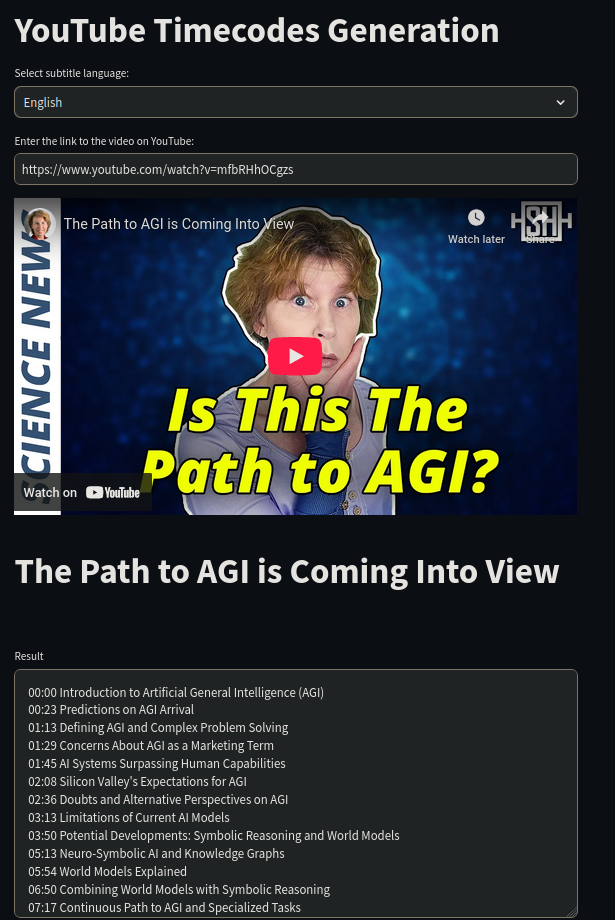
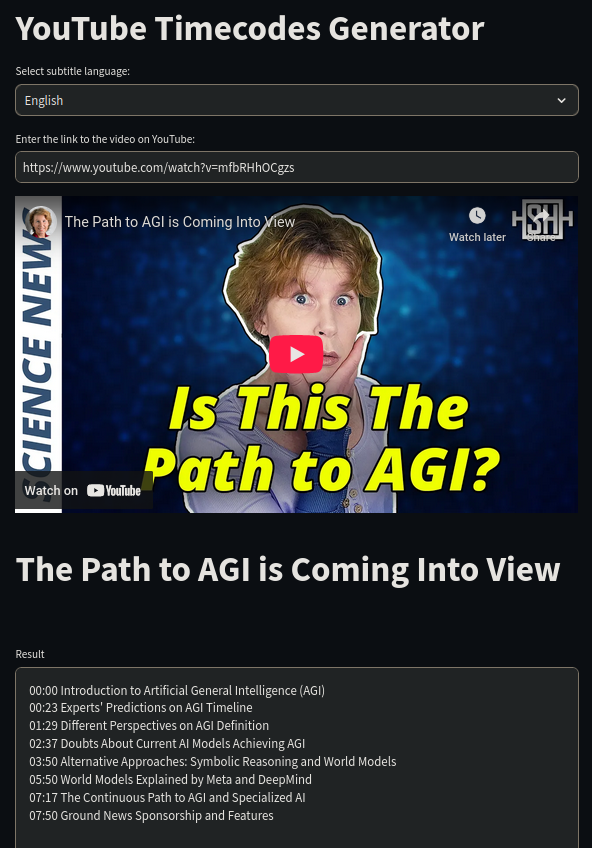
Update README

diff --git a/app.py b/app.py
@@ -12,7 +12,7 @@ from dotenv import load_dotenv
 load_dotenv()
 
 def main():
-    st.title("YouTube Timecodes Generation")
+    st.title("YouTube Timecodes Generator")
 
     # Language selection
     languages = {

diff --git a/README.md b/README.md
@@ -1,6 +1,6 @@
 # YouTube AI Timecodes Generator
 
-This service downloads and preprocesses subtitles from YouTube video, analyzes and summarizes them and then creates timecodes for every major theme in the video. You don't have to create tim
+This is service for fully automatical YouTube timecode generation using AI capabilities.
 
 ## Install
 
@@ -18,6 +18,32 @@ This service downloads and preprocesses subtitles from YouTube video, analyzes a
    - [How to Install Python on Windows](https://www.geeksforgeeks.org/how-to-install-python-on-windows/)
    - [How to Install Python on Linux](https://www.geeksforgeeks.org/how-to-install-python-on-linux/)
    - [How to Download and Install Python on macOS](https://www.geeksforgeeks.org/how-to-download-and-install-python-latest-version-on-macos-mac-os-x/)
+
+**Activate the virtual environment**
+
+   ```bash
+   python -m venv virtual
+   ```
+   or
+
+   ```bash
+   python3 -m venv virtual
+   ```
+
+   Then activate virtual environment:
+
+   ```bash
+   source virtual/bin/activate
+   ```
+
+   For Windows, you need to open the terminal (Win + R -> type cmd in the window that appears, then Enter):
+
+   ```bash
+   .\virtual\Scripts\activate
+   ```
+
+   If Windows reports that python is not recognized as an executable command, etc., run the python installer again, in the window that appears click Modify -> Next -> Add python to environment variables.
+
 
 **Install requirements:**
 ```bash
@@ -45,6 +71,11 @@ LLM_API_KEY="YOUR_LLM_API_KEY"
 1. Run command in bash
 ```bash
 streamlit run app.py
+```
+If you run this service after logout or reboot, don't forget to activate virtual environment.
+
+```bash
+source virtual/bin/activate
 ```
 
 2. Browser window will be opened. 
